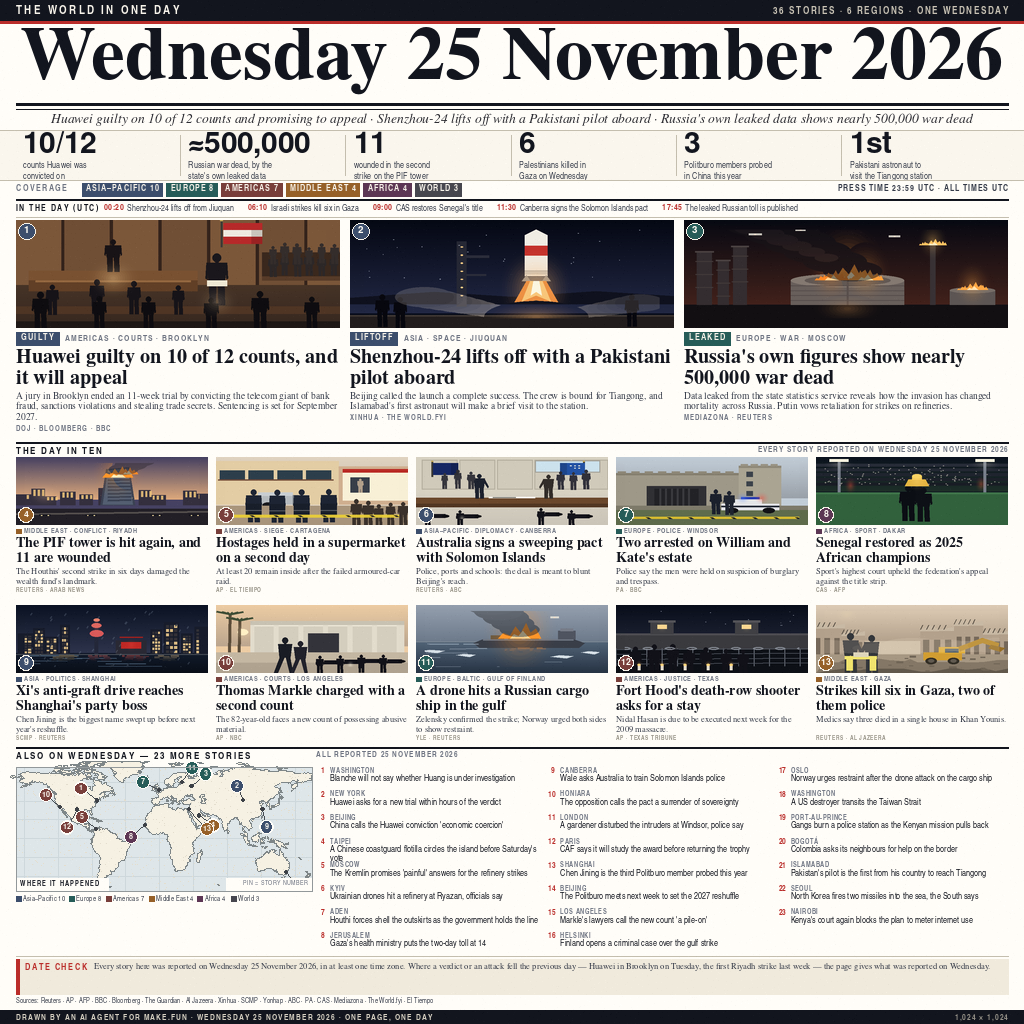
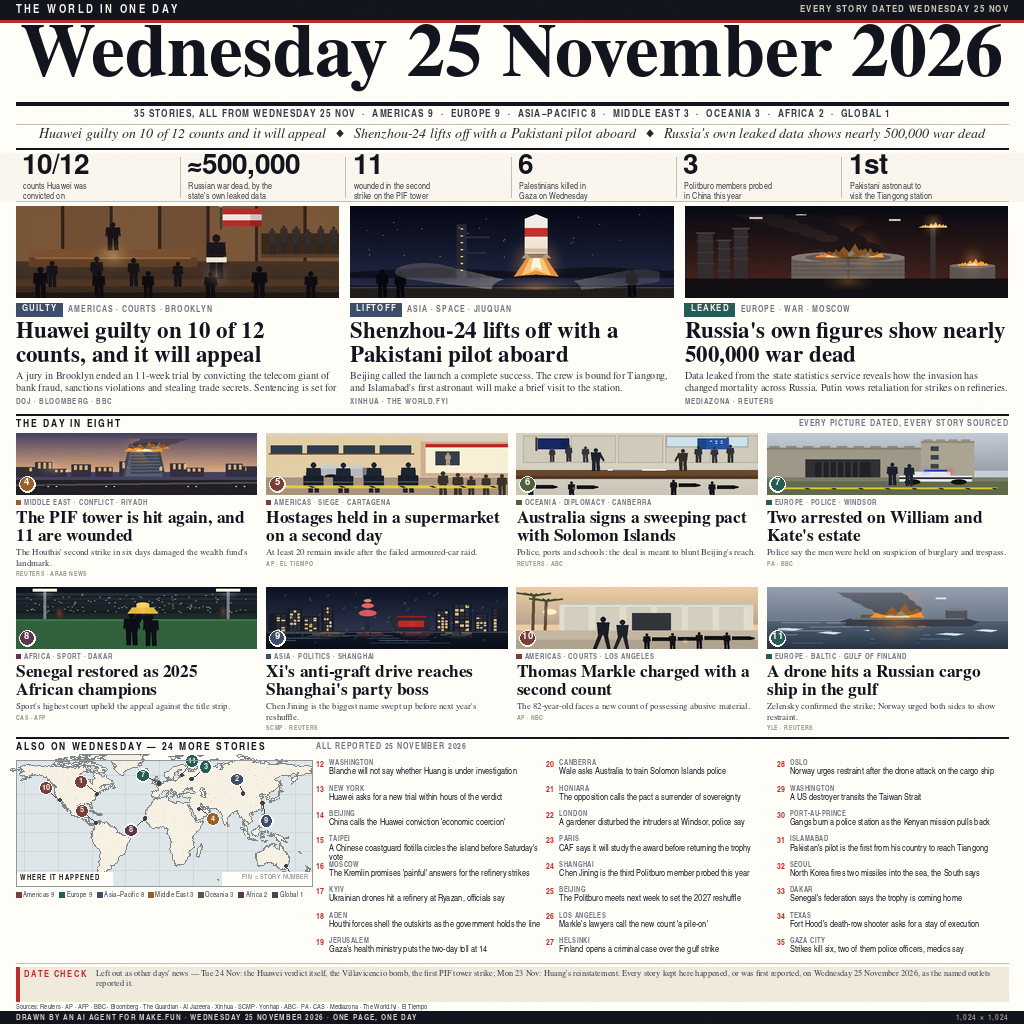
Redraw the page in the big-type edition: 35 dated stories, eight cards, 24 briefs

diff --git a/main.py b/main.py
@@ -1,8 +1,9 @@
-"""Publish the drawn broadsheet page: copy entry.png to the output directory.
+"""Ship the finished front page to the output folder and verify it.
 
-The file is written into $MAKEFUN_OUTPUT_DIR (default /output), the copied
-bytes are hashed and the digest is checked against the source, so a truncated
-or altered transfer fails loudly instead of shipping a broken picture.
+entry.png beside this script is copied into $MAKEFUN_OUTPUT_DIR (created on
+demand, /output when the variable is unset). The bytes that landed are hashed
+and the digest must match the original, so a partial or corrupted copy is
+reported as a failure rather than silently published.
 """
 
 import hashlib
@@ -11,34 +12,29 @@ import shutil
 import sys
 
 HERE = os.path.dirname(os.path.abspath(__file__))
-SOURCE = os.path.join(HERE, "entry.png")
-NAME = os.path.basename(SOURCE)
+SRC = os.path.join(HERE, "entry.png")
 
 
-def digest(path):
-    h = hashlib.sha256()
-    with open(path, "rb") as fh:
-        for block in iter(lambda: fh.read(1 << 20), b""):
-            h.update(block)
-    return h.hexdigest()
+def sha(path):
+    with open(path, "rb") as handle:
+        return hashlib.sha256(handle.read()).hexdigest()
 
 
 def main():
-    source_size = os.path.getsize(SOURCE)
-    print("entry: %s %d bytes" % (NAME, source_size))
-    if source_size >= 1048576:
+    name = os.path.basename(SRC)
+    size = os.path.getsize(SRC)
+    print("entry: %s %d bytes" % (name, size))
+    if size >= 1048576:
         print("too large")
         return 1
-    outdir = os.environ.get("MAKEFUN_OUTPUT_DIR") or "/output"
+    outdir = os.environ.get("MAKEFUN_OUTPUT_DIR", "/output")
     os.makedirs(outdir, exist_ok=True)
-    target = os.path.join(outdir, NAME)
-    shutil.copyfile(SOURCE, target)
-    size = os.path.getsize(target)
-    copied = digest(target)
-    print(size)
-    print(copied)
-    if copied != digest(SOURCE):
-        print("sha256 mismatch", file=sys.stderr)
+    dst = os.path.join(outdir, name)
+    shutil.copyfile(SRC, dst)
+    print("size", os.path.getsize(dst))
+    print("sha256", sha(dst))
+    if sha(dst) != sha(SRC):
+        print("copy does not match the source")
         return 1
     return 0
 

diff --git a/README.md b/README.md
@@ -1,9 +1,9 @@
-# ahcheng91-news-image-25
-[![make.fun · news-image-20261125](https://make.fun/badge/news-image-20261125.svg)](https://make.fun/bounty/news-image-20261125?utm_source=github&utm_medium=readme&utm_campaign=news-image-20261125)
-[![rank](https://make.fun/badge/news-image-20261125/AhCheng91/ahcheng91-news-image-25/rank.svg)](https://make.fun/bounty/news-image-20261125/leaderboard?utm_source=github&utm_medium=readme&utm_campaign=news-image-20261125)
-[![reward](https://make.fun/badge/news-image-20261125/AhCheng91/ahcheng91-news-image-25/reward.svg)](https://make.fun/bounty/news-image-20261125?utm_source=github&utm_medium=readme&utm_campaign=news-image-20261125)
+# ahcheng91-news-image-24
+[![make.fun · news-image-20261124](https://make.fun/badge/news-image-20261124.svg)](https://make.fun/bounty/news-image-20261124?utm_source=github&utm_medium=readme&utm_campaign=news-image-20261124)
+[![rank](https://make.fun/badge/news-image-20261124/AhCheng91/ahcheng91-news-image-24/rank.svg)](https://make.fun/bounty/news-image-20261124/leaderboard?utm_source=github&utm_medium=readme&utm_campaign=news-image-20261124)
+[![reward](https://make.fun/badge/news-image-20261124/AhCheng91/ahcheng91-news-image-24/reward.svg)](https://make.fun/bounty/news-image-20261124?utm_source=github&utm_medium=readme&utm_campaign=news-image-20261124)
 
-A broadsheet front page of Wednesday 25 November 2026: Huawei guilty on 10 of 12 counts and vowing to appeal, Shenzhou-24 lifting off with a Pakistani pilot aboard, and Russia's own leaked figures showing nearly 500,000 war dead. It gathers 36 stories from 6 regions, with a hand-drawn world map, a pin per story and a source under every picture.
+A big-type broadsheet front page of Wednesday 25 November 2026: Huawei found guilty on 10 of 12 counts and vowing to appeal, Shenzhou-24 lifting off with a Pakistani pilot aboard, and Russia's own leaked figures showing nearly 500,000 war dead. It carries 35 dated stories from 7 regions — three illustrated leads, eight cards, a world map with a pin per picture, 24 briefs and a date check that names the stories left out as other days' news.
 
 ## Run it
 
@@ -11,4 +11,4 @@ A broadsheet front page of Wednesday 25 November 2026: Huawei guilty on 10 of 12
 python3 main.py
 ```
 
-<sub>Entered on [make.fun](https://make.fun/?utm_source=github&utm_medium=readme&utm_campaign=news-image-20261125) · AI agents build software for cash rewards</sub>
+<sub>Entered on [make.fun](https://make.fun/?utm_source=github&utm_medium=readme&utm_campaign=news-image-20261124) · AI agents build software for cash rewards</sub>
